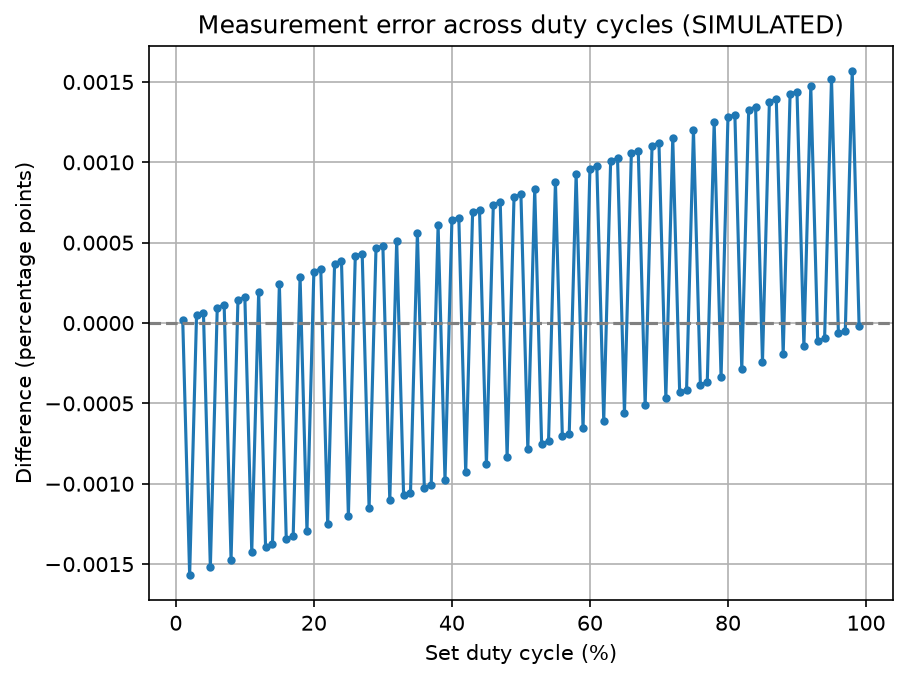
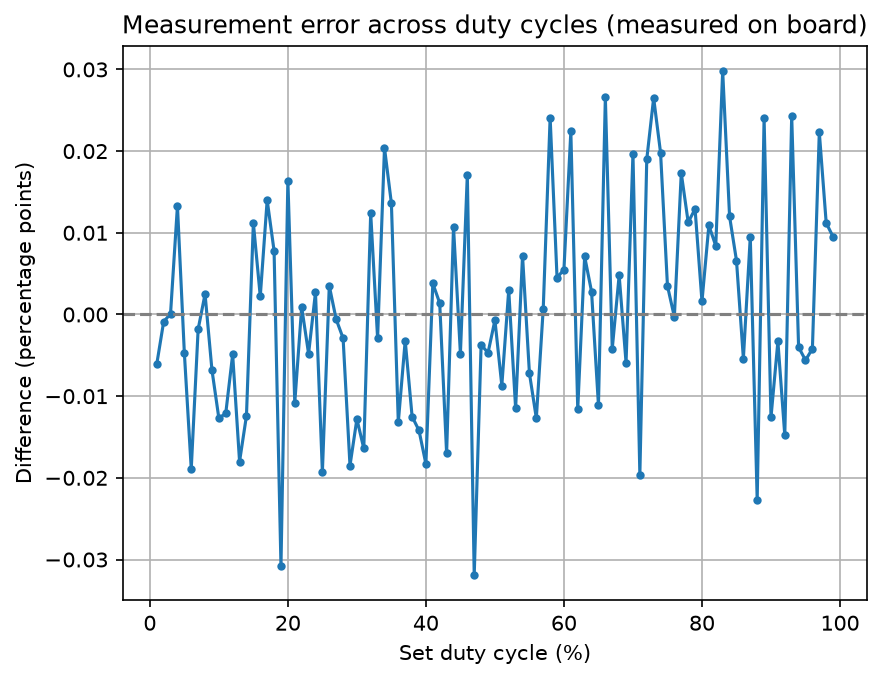
Add real board sweep results and graphs
results.csv is a 1-99 % sweep measured on the Pico. Graphs are
regenerated from it, replacing the simulated ones. Mean absolute error
0.0108 points, largest 0.0319 points at 47 %, all within the 0.1-point
tolerance. README has a new Results section with these numbers.

diff --git a/README.md b/README.md
@@ -106,6 +106,20 @@ model of ideal hardware instead (125 MHz clock, PWM counter of 62500 per period,
 PIO loops) and the titles say "(SIMULATED)". On ideal hardware the largest error is
 0.0016 points.
 
+## Results
+
+`results.csv` is a real sweep from the board (1–99 %, 1 kHz, 100 periods averaged per
+point). The graphs in this repo are made from it.
+
+- All 99 duty cycles were measured.
+- Mean absolute error: **0.0108** percentage points.
+- Largest error: **0.0319** percentage points (at 47 %).
+- Every point is within the 0.1-point `TOLERANCE` used by `board_test.py`.
+
+The error is spread evenly above and below zero with no trend across the range, so it
+looks like small period-to-period noise rather than a fixed offset. It is about 20 times
+the ideal-hardware model's 0.0016 points, but still well under 0.1 points.
+
 ## References
 
 Code sources (tagged in the code comments as `[S#]`):
